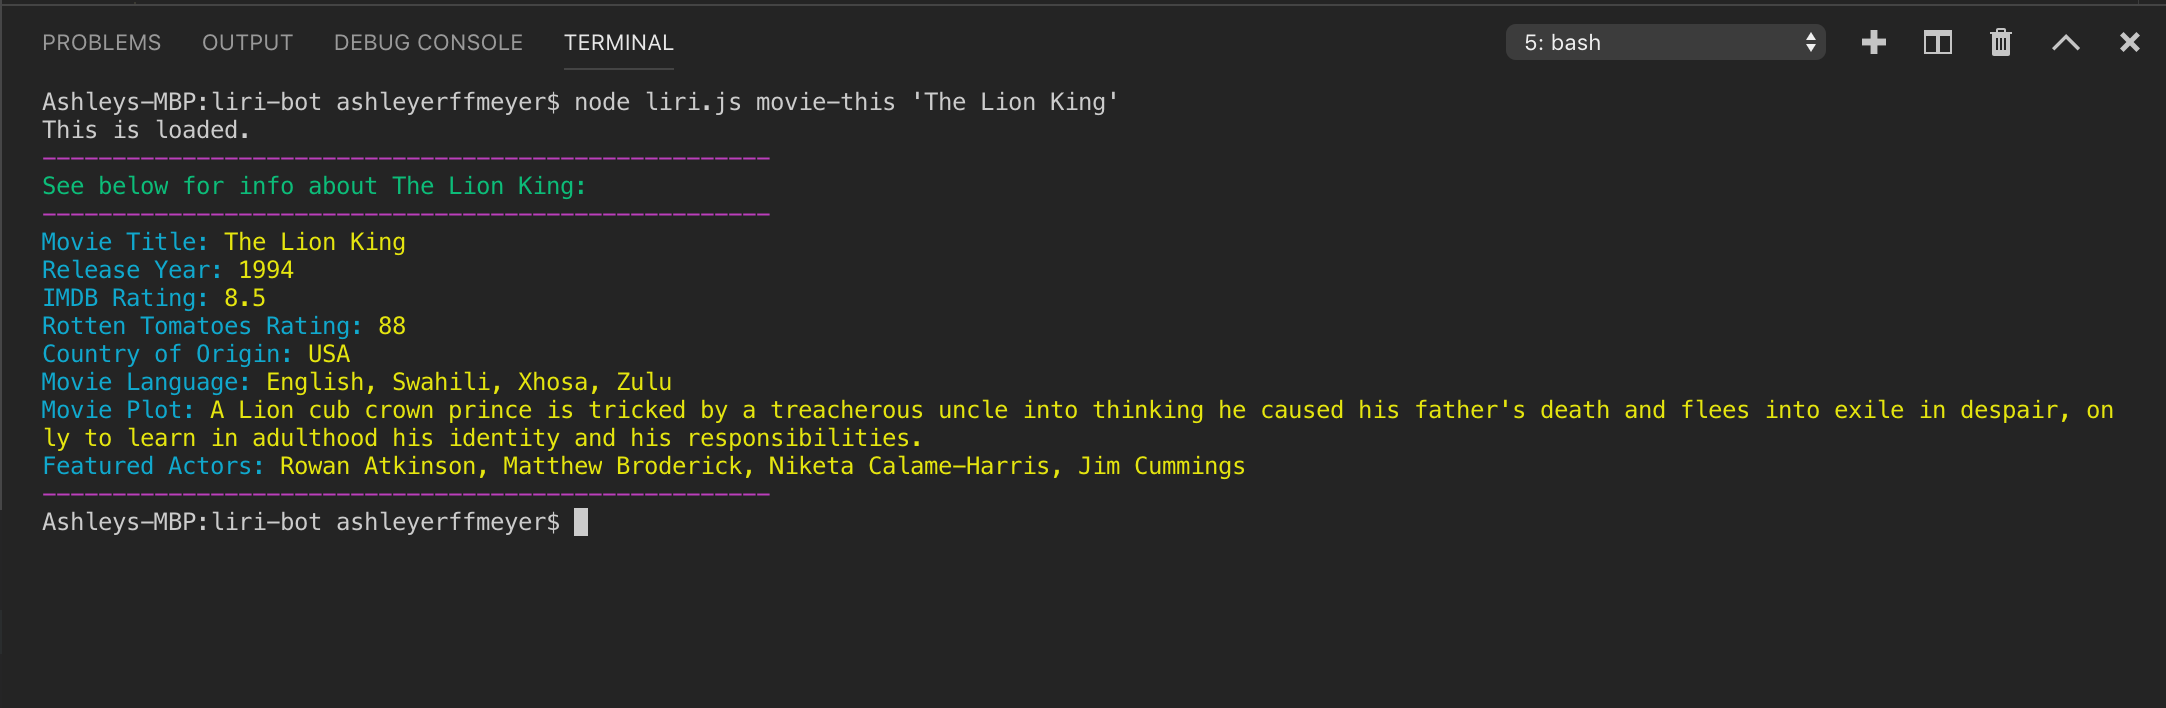
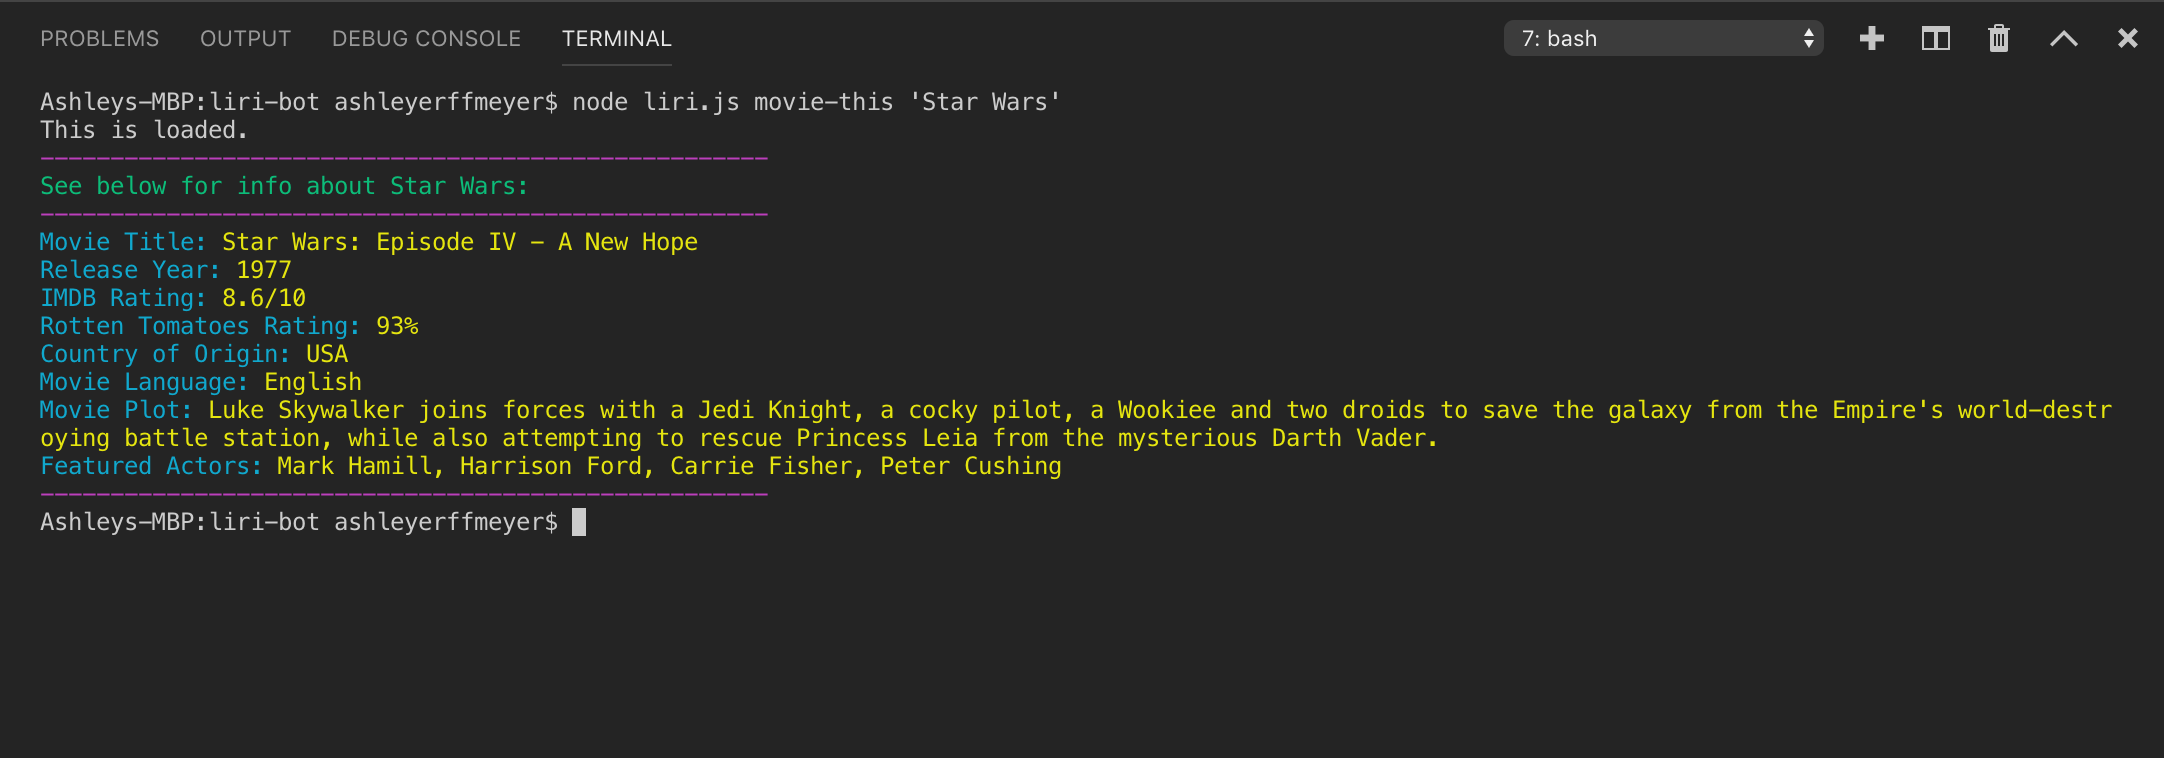
updating README.md screenshots and liri.js functionality

Changed region(s): [[0.0, 0.0, 1.0, 0.7768]]

diff --git a/liri.js b/liri.js
@@ -115,13 +115,14 @@ var movieThis = function (movieName) {
 
         // Then get a response and do the following actions
         .then(function (response) {
+
             console.log(chalk.magenta("----------------------------------------------------"));
             console.log(chalk.green("See below for info about " + movieName + ":"));
             console.log(chalk.magenta("----------------------------------------------------"));
             console.log(chalk.cyan("Movie Title: ") + chalk.yellow(response.data.Title));
             console.log(chalk.cyan("Release Year: ") + chalk.yellow(response.data.Year));
-            console.log(chalk.cyan("IMDB Rating: ") + chalk.yellow(response.data.imdbRating));
-            console.log(chalk.cyan("Rotten Tomatoes Rating: ") + chalk.yellow(response.data.Metascore));
+            console.log(chalk.cyan("IMDB Rating: ") + chalk.yellow(response.data.Ratings[0].Value));
+            console.log(chalk.cyan("Rotten Tomatoes Rating: ") + chalk.yellow(response.data.Ratings[1].Value));
             console.log(chalk.cyan("Country of Origin: ") + chalk.yellow(response.data.Country));
             console.log(chalk.cyan("Movie Language: ") + chalk.yellow(response.data.Language));
             console.log(chalk.cyan("Movie Plot: ") + chalk.yellow(response.data.Plot));
